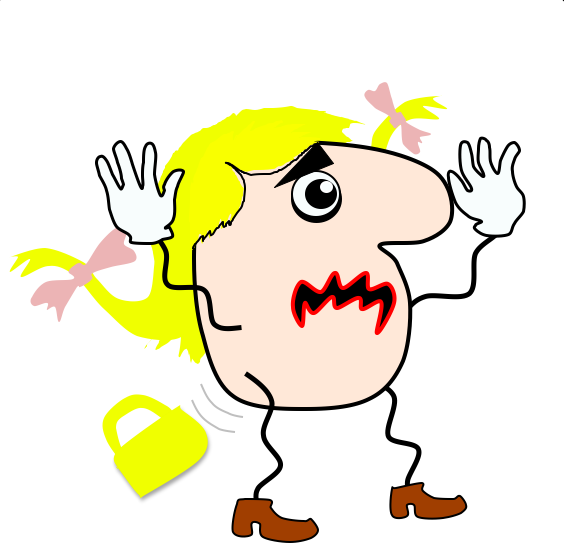
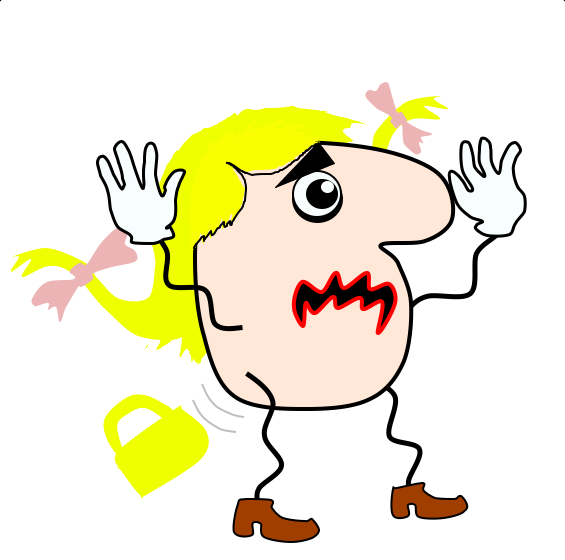
Skin Colour changes with colorPicker but first time only

diff --git a/StayAtHomies/src/createGUI.java b/StayAtHomies/src/createGUI.java
@@ -22,6 +22,9 @@ public class createGUI extends Application
     private ImageView selectedCharacter = null;
     ImageView leftChar = new ImageView();
     ImageView rightChar = new ImageView();
+    Color skinColour = Color.web("0xffe8d8ff");
+    Color newSkinColour;
+
 
     public static void main(String[] args)
     {
@@ -37,7 +40,6 @@ public class createGUI extends Application
     public void createUI()
     {
         layout = new BorderPane();
-
         createTopMenuBar();
         createButtons();
         createMainPane();
@@ -230,11 +232,21 @@ public class createGUI extends Application
         colorPalette.setPrefHeight(40);
         colorPalette.setStyle("-fx-background-insets: 0 2 0 2; -fx-background-color: rgba(0, 0, 0, 1); -fx-background-radius: 2; -fx-cursor: hand");
         colorPalette.setOnAction(event ->{
-            Color c = colorPalette.getValue();
+            newSkinColour = colorPalette.getValue();
         });
 
-        Button btn7 = new Button();
-        btn7.setText("BTN7");
+
+        Button colour = new Button();
+       // buttonCommonStyles(colour);
+        colour.setText("Change color");
+        colour.setOnAction(event ->{
+            if(selectedCharacter != null){
+                selectedCharacter.setImage(colourChange(selectedCharacter.getImage()));
+            }
+            else{
+                System.out.println("Select one of the characters on which you want to perform the operation");
+            }
+        });
 
         Button btn8 = new Button();
         btn8.setText("BTN8");
@@ -251,12 +263,13 @@ public class createGUI extends Application
         Button b112 = new Button();
         b112.setText("BTN8");
 
-        vbox.getChildren().addAll(importLftChar, importRightChar, flip, rotateLeft, rotateRight, colorPalette, btn7, btn8, btn9, btn10, btn11, b112);
+        vbox.getChildren().addAll(importLftChar, importRightChar, flip, rotateLeft, rotateRight, colorPalette, colour, btn8, btn9, btn10, btn11, b112);
 
         layout.setLeft(scrollPane);
     }
 
-    private void insertModel(ImageView imgv){
+    private void insertModel(ImageView imgv)    //Uploads images to comix strip
+    {
         FileChooser fileChooser = new FileChooser();
         fileChooser.getExtensionFilters().addAll(new FileChooser.ExtensionFilter("Image Files", "*.png"));
         File file = fileChooser.showOpenDialog(stage);
@@ -267,7 +280,8 @@ public class createGUI extends Application
         }
     }
 
-    private Image flipImage(Image image){
+    private Image flipImage(Image image)
+    {
         int width = (int) image.getWidth();
         int height = (int)image.getHeight();
 
@@ -290,6 +304,39 @@ public class createGUI extends Application
         return imgV;
     }
 
+
+    private Image colourChange(Image image)
+    {
+        int width = (int) image.getWidth();
+        int height = (int)image.getHeight();
+
+        PixelReader pr = image.getPixelReader();
+        WritableImage img = new WritableImage(width,  height);
+        PixelWriter pw = img.getPixelWriter();
+
+
+        Color rgba;
+        Color temp = Color.BLACK;
+        for(int i = 0; i < height; i++)
+        {
+            for(int j = 0; j < width; j++)
+            {
+                rgba = pr.getColor(j,i);
+
+                if(rgba.equals(skinColour))
+                {
+                    pw.setColor(j, i, newSkinColour);
+                    temp = rgba;
+                }
+                else
+                {
+                    pw.setColor(j, i, rgba);
+                }
+            }
+        }
+        skinColour = temp;
+        return img;
+    }
     private void buttonCommonStyles(Button btn){
         btn.setStyle("-fx-background-color: transparent; -fx-cursor: hand");
     }

diff --git a/StayAtHomies/src/skinColourChange.java b/StayAtHomies/src/skinColourChange.java
@@ -1,0 +1,2 @@
+public class skinColourChange {
+}
